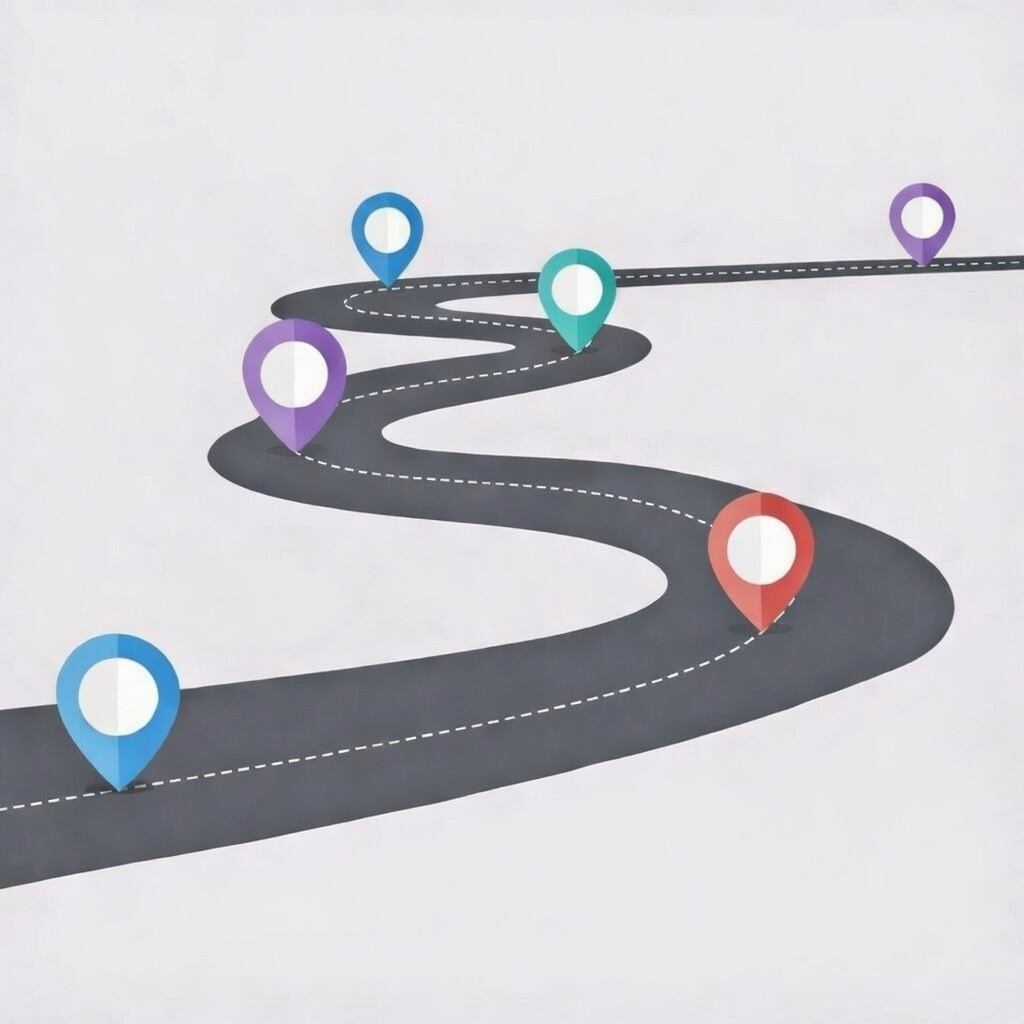
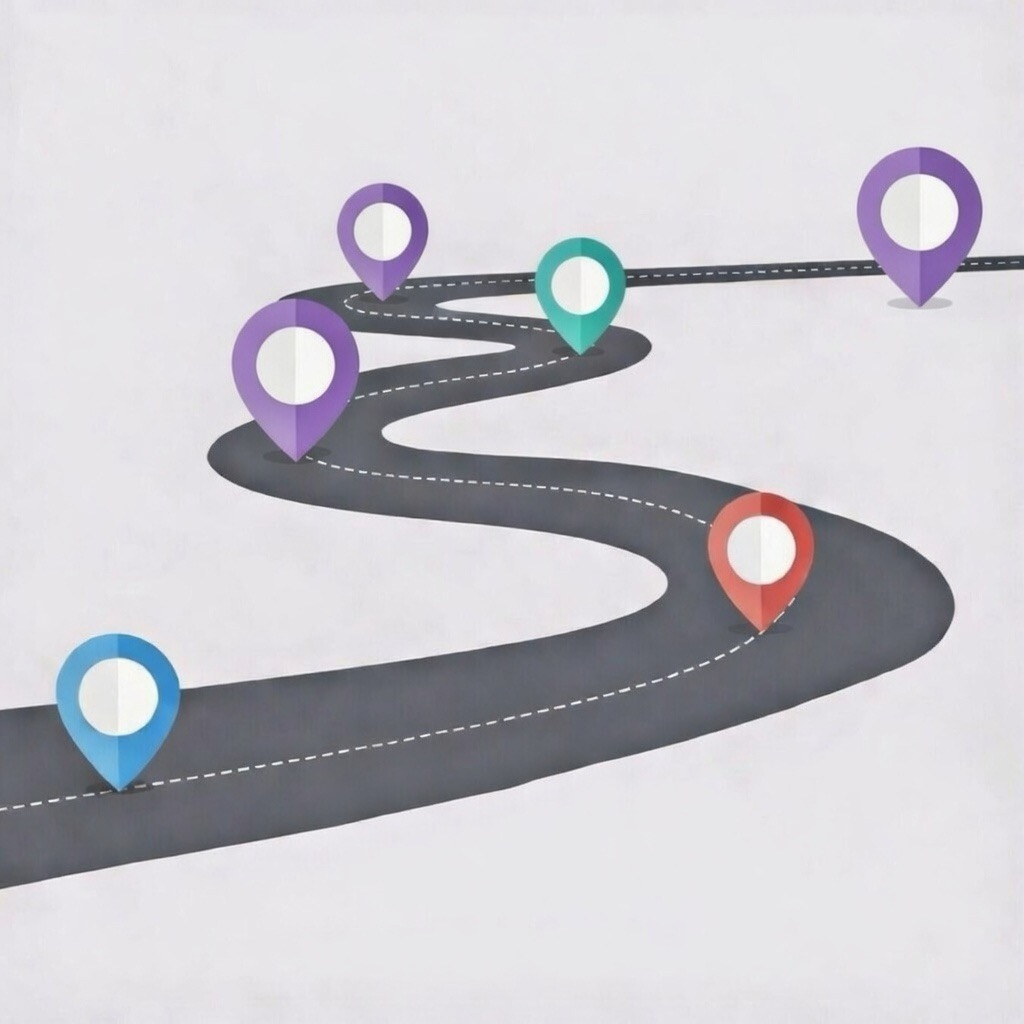
Adjust roadmap text positions

diff --git a/src/constants/roadmapTemplateAssets.ts b/src/constants/roadmapTemplateAssets.ts
@@ -700,9 +700,9 @@ export const ROADMAP_IMAGE_BACKED_TEMPLATE_CONFIG: Partial<
       },
       {
         circleId: 'c6',
-        label: { x: 0.62, y: 0.07, maxWidth: 0.33, align: 'left', color: '#8E63C7', font: 'title' },
+        label: { x: 0.59, y: 0.07, maxWidth: 0.33, align: 'left', color: '#8E63C7', font: 'title' },
         detail: {
-          x: 0.62,
+          x: 0.59,
           y: 0.115,
           maxWidth: 0.33,
           align: 'left',
